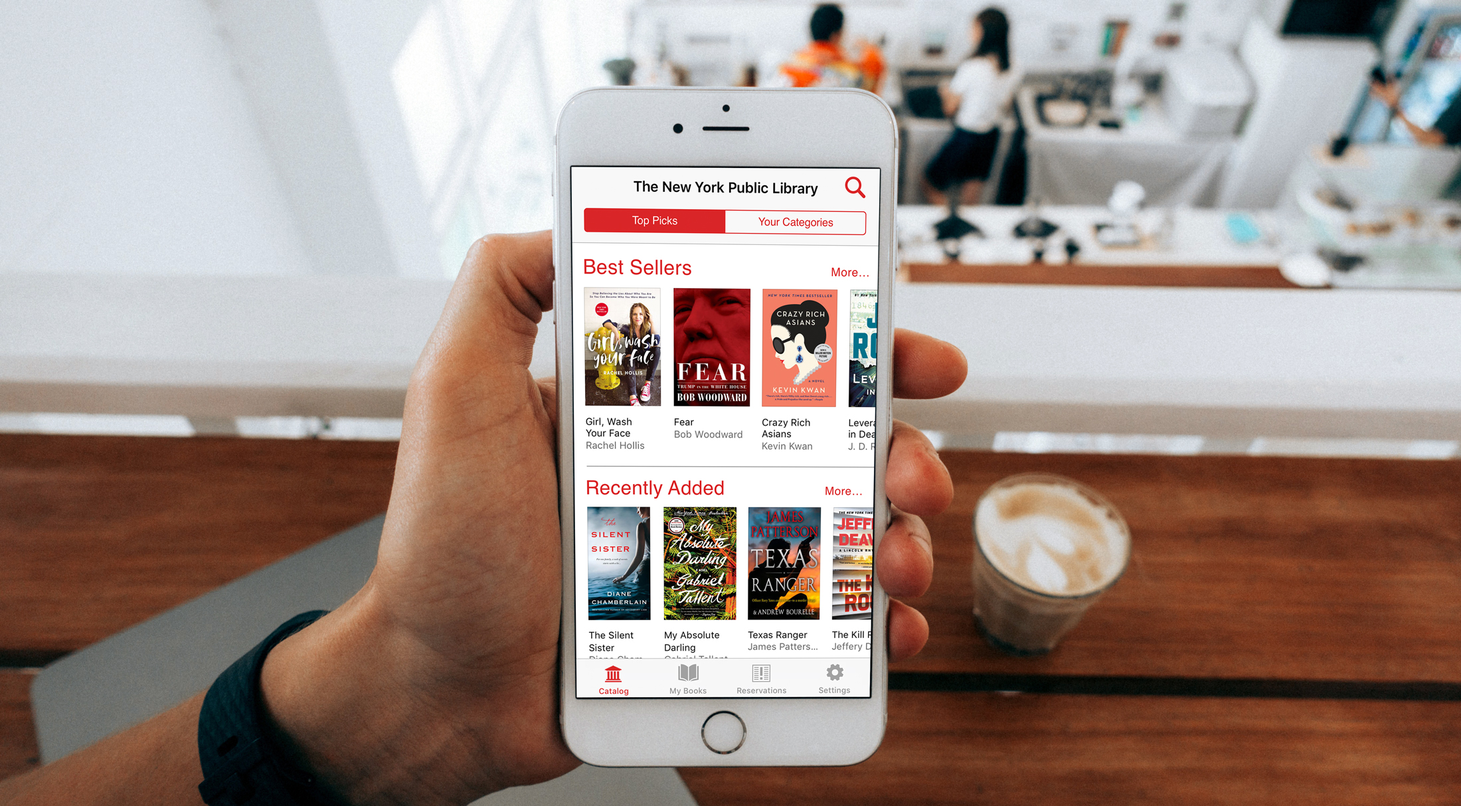
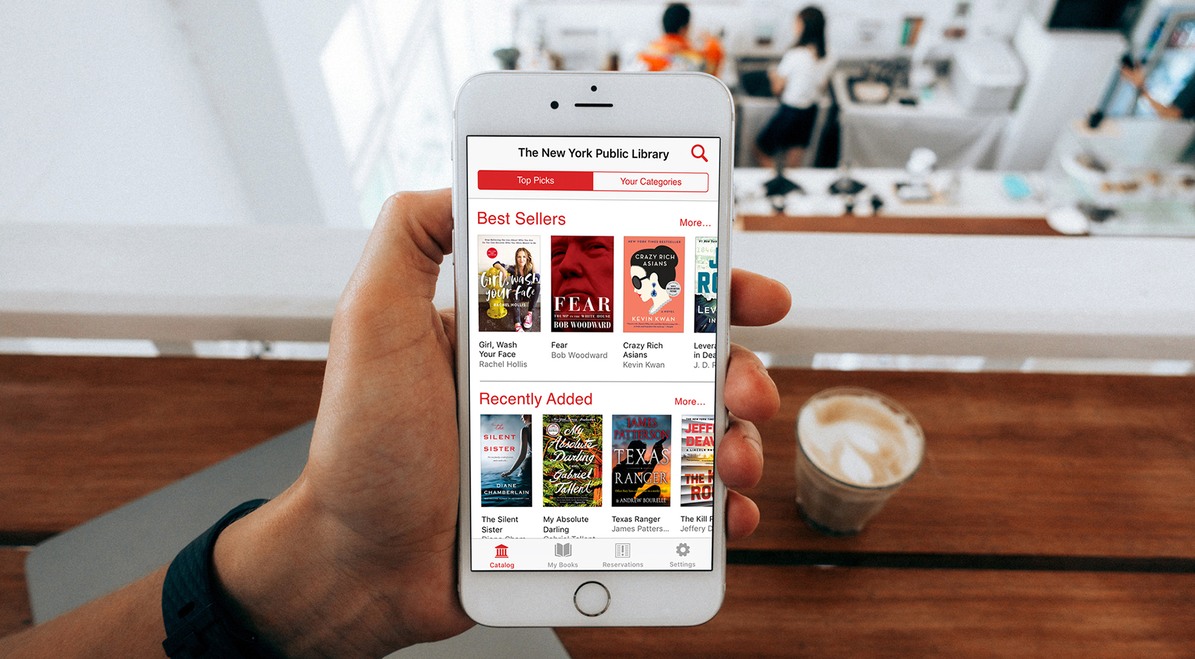
reduced cover image sizes and updated intro

diff --git a/dist/index.html b/dist/index.html
@@ -48,7 +48,7 @@
       </ul>
     </div>
     <div class="content home">
-      <div class="intro"><strong>Hi there! I'm Jennifer</strong>, a NYC-based multidisciplinary designer who enjoys nature, yoga, and gaming.</div>
+      <div class="intro"><strong>Hi there! I'm Jennifer</strong>, a NYC-based designer who enjoy the process of problem solving, turning ideas into reality, and bringing values to both users and stakeholders. On my free time, I indulge in exploring nature, yoga, and gaming. </div>
 
       <!-- <a href="forum.html" class="portfolio-piece">
         <img src="placeholder.jpg" />
